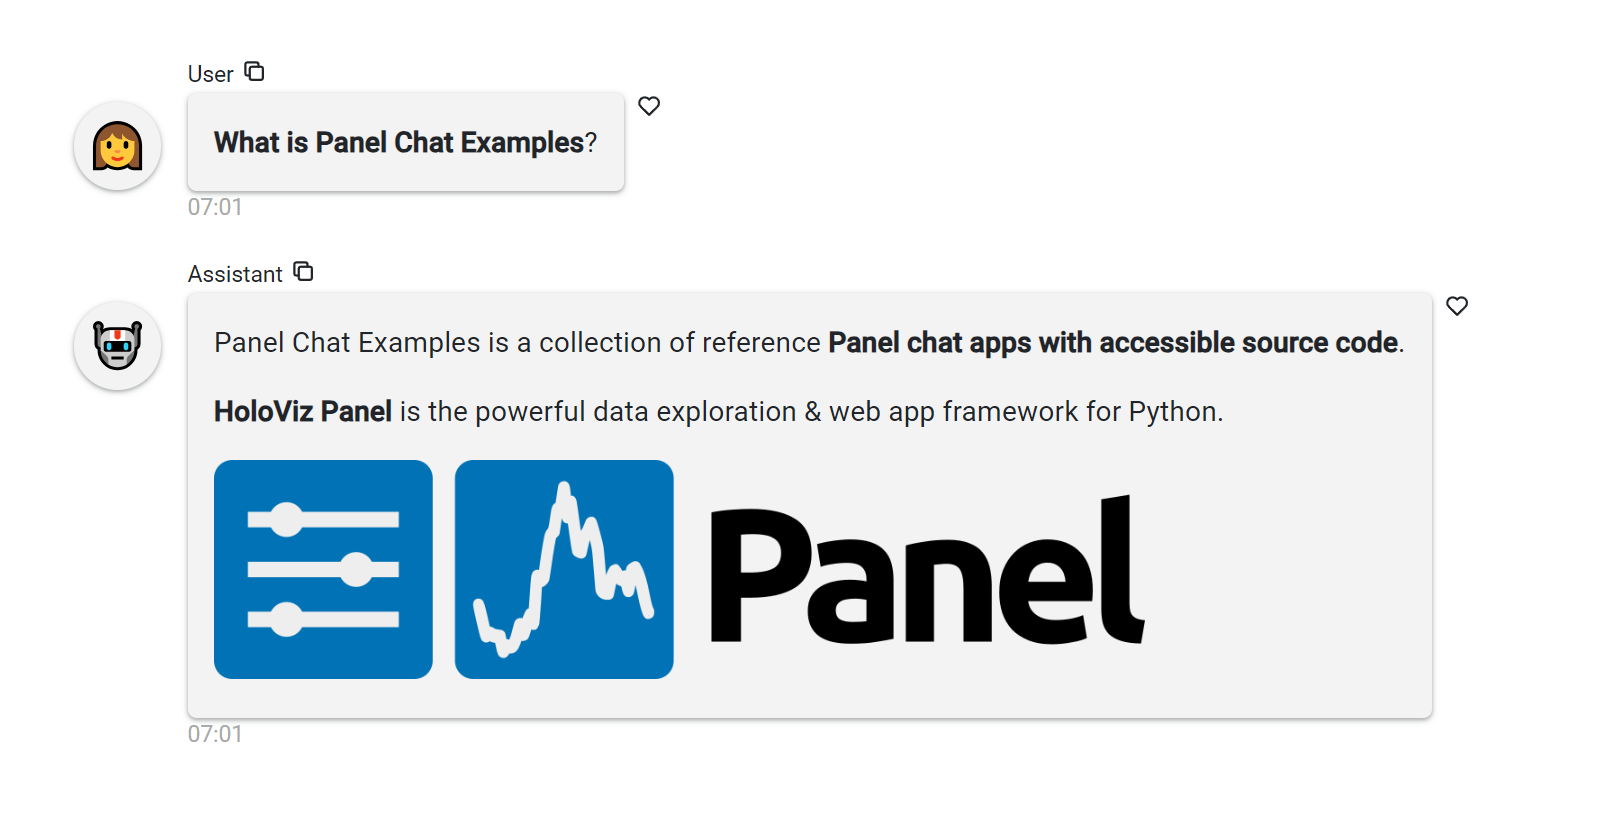
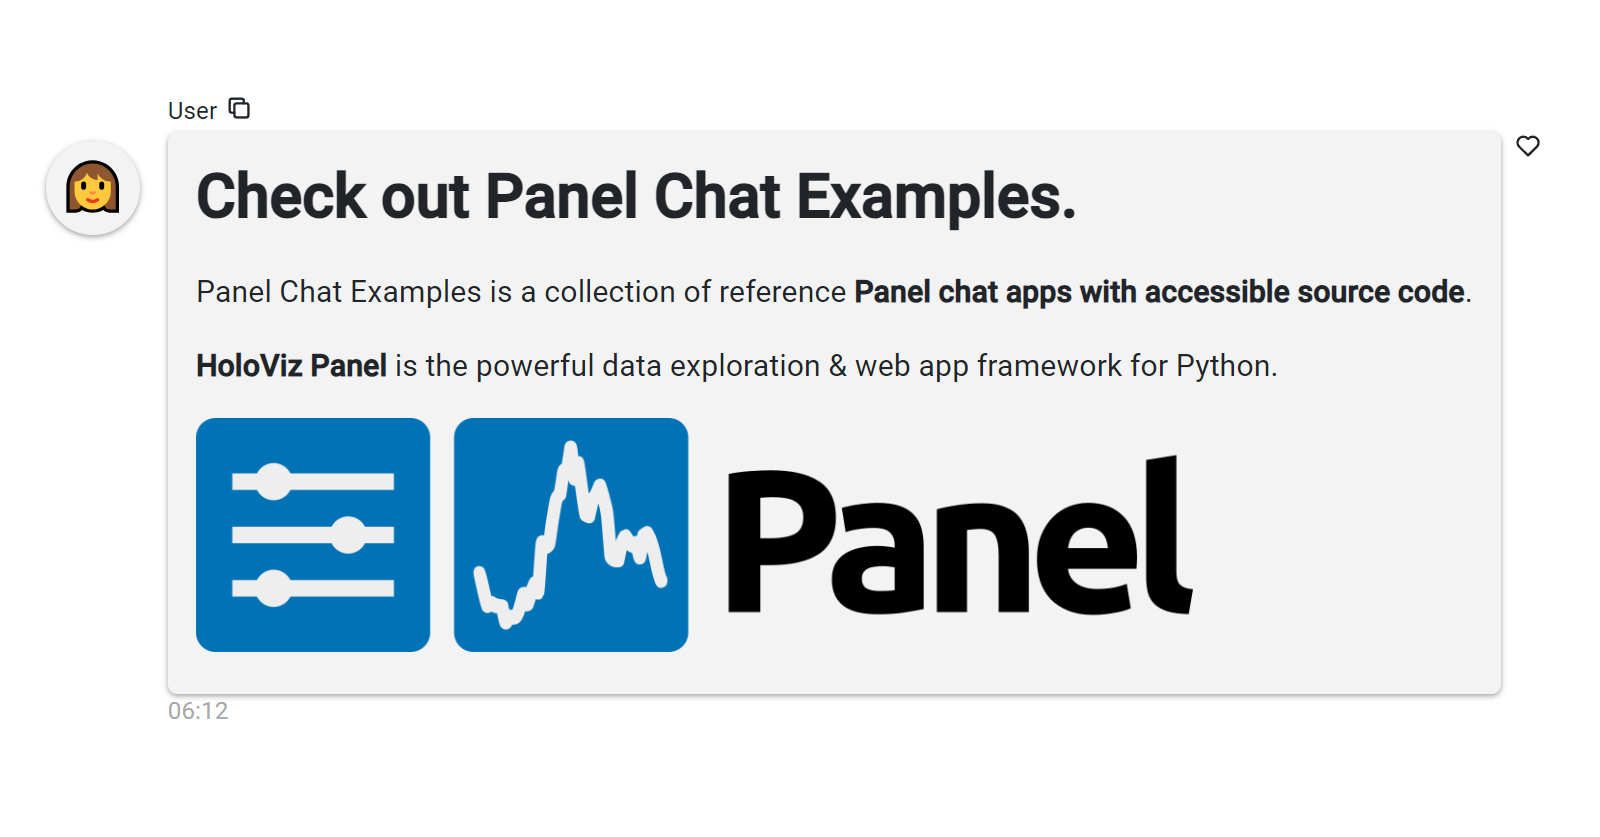
simplify social card

Changed region(s): [[0.0312, 0.3106, 0.9375, 0.9008], [0.0312, 0.0621, 0.6875, 0.2796], [0.9375, 0.1553, 0.9688, 0.1864]]

diff --git a/scripts/social_card_app.py b/scripts/social_card_app.py
@@ -5,9 +5,9 @@ import panel as pn
 
 pn.extension(design="material")
 
+WELCOME = """
+# Check out **Panel Chat Examples**.
 
-async def callback(contents: str, user: str, instance: pn.chat.ChatInterface):
-    return """
 Panel Chat Examples is a collection of reference **Panel chat apps with accessible \
 source code**.
 
@@ -18,6 +18,11 @@ style="height:125px"></img>
 """
 
 
+async def callback(contents: str, user: str, instance: pn.chat.ChatInterface):
+    return ""
+
+
 chat_interface = pn.chat.ChatInterface(callback=callback, callback_user="Assistant")
-chat_interface.send("**What is Panel Chat Examples**?", user="User", avatar="👩")
+chat_interface.send(WELCOME, user="User", avatar="👩", respond=False)
+
 chat_interface.servable()
